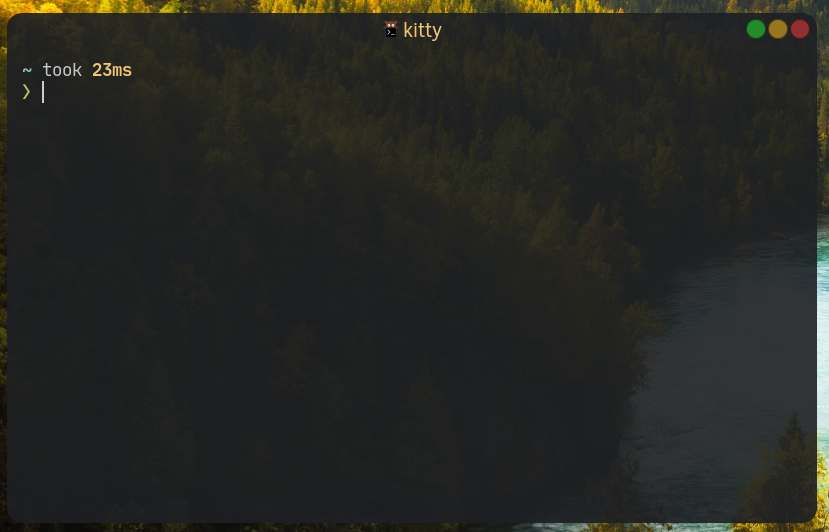
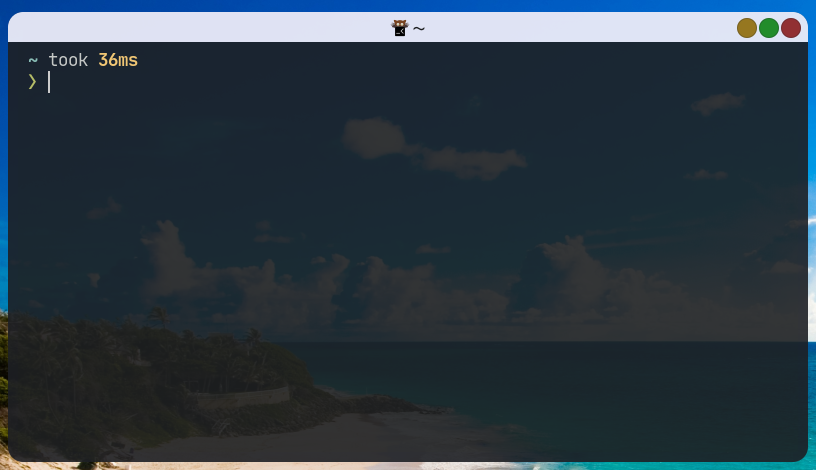
Updated my personal layout picture and the README

diff --git a/README.md b/README.md
@@ -29,7 +29,7 @@ An advanced window decoration plugin for the wayfire window manager.
 - [x] Implement individual corner rounding;
 - [x] Multiple corner radii *Implemented as either the corner is there, or it is not;
 - [x] Implement multiple themes.
-- [ ] Add accent colors to be used on some of the edges;
+- [x] Add accent colors to be used on anywhere on edges;
 - [ ] Implement a maximum title size with potentially animated title scrolling;
 - [ ] Declare a minimum window size so the decorations can not look disgusting on small windows;
 - [ ] Implement shadows.
@@ -246,7 +246,7 @@ My personal layout:
 ```ini
 border_size = 30 5
 corner_radius = 15
-layout = | icon title | maximize p minimize p close P7 -
+layout = a | icon p title | P7 minimize p maximize p close P7 Atrtl
 ```
 
 ???:
